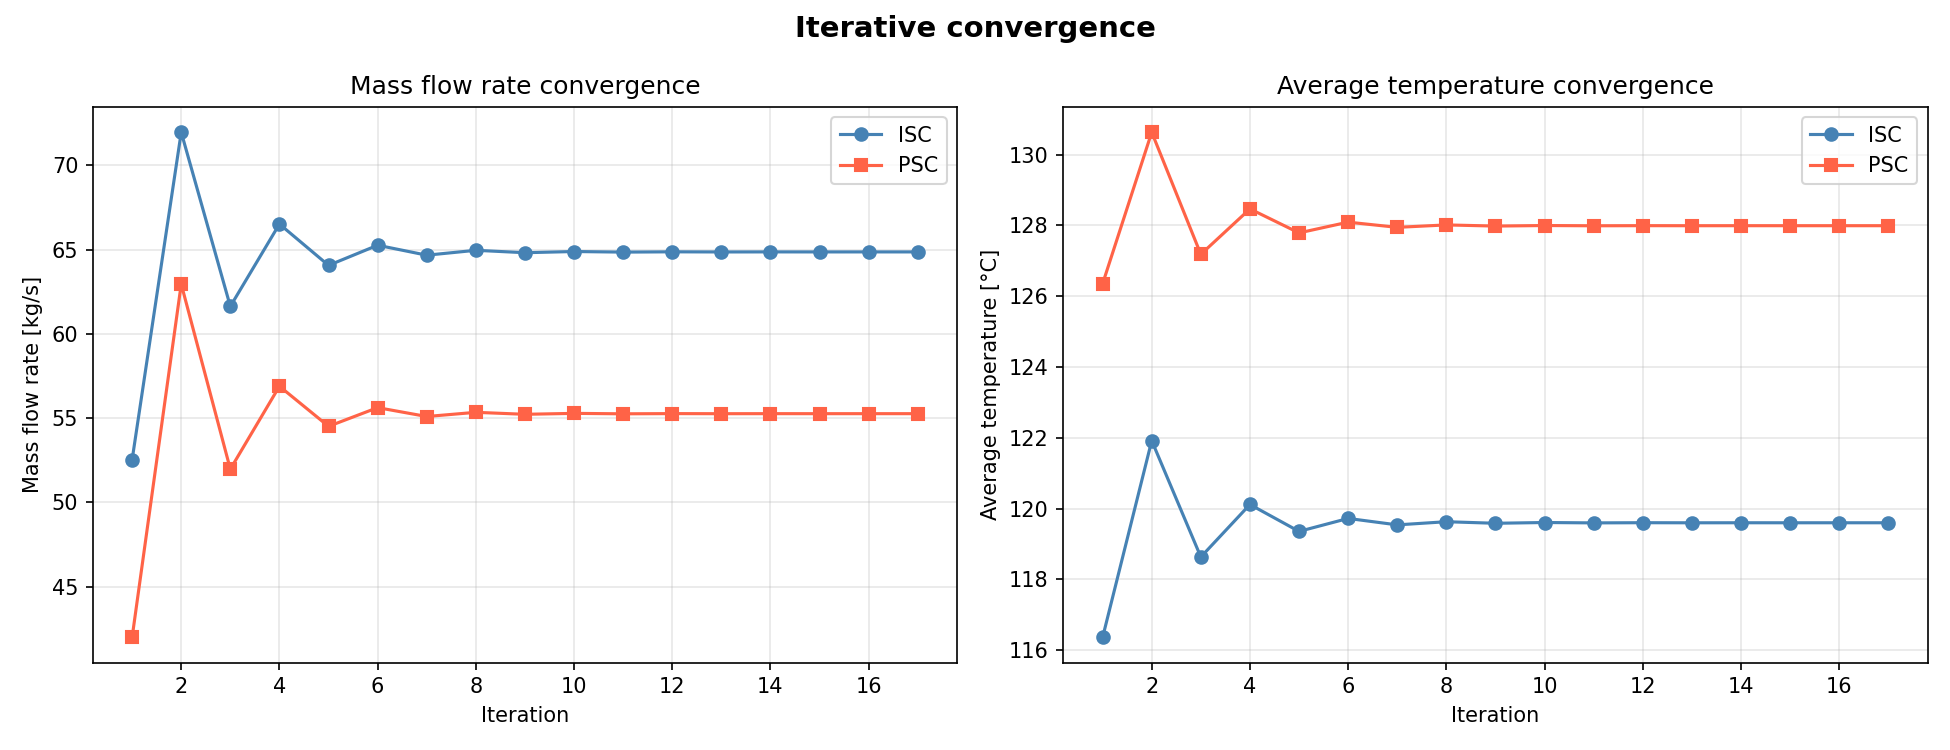
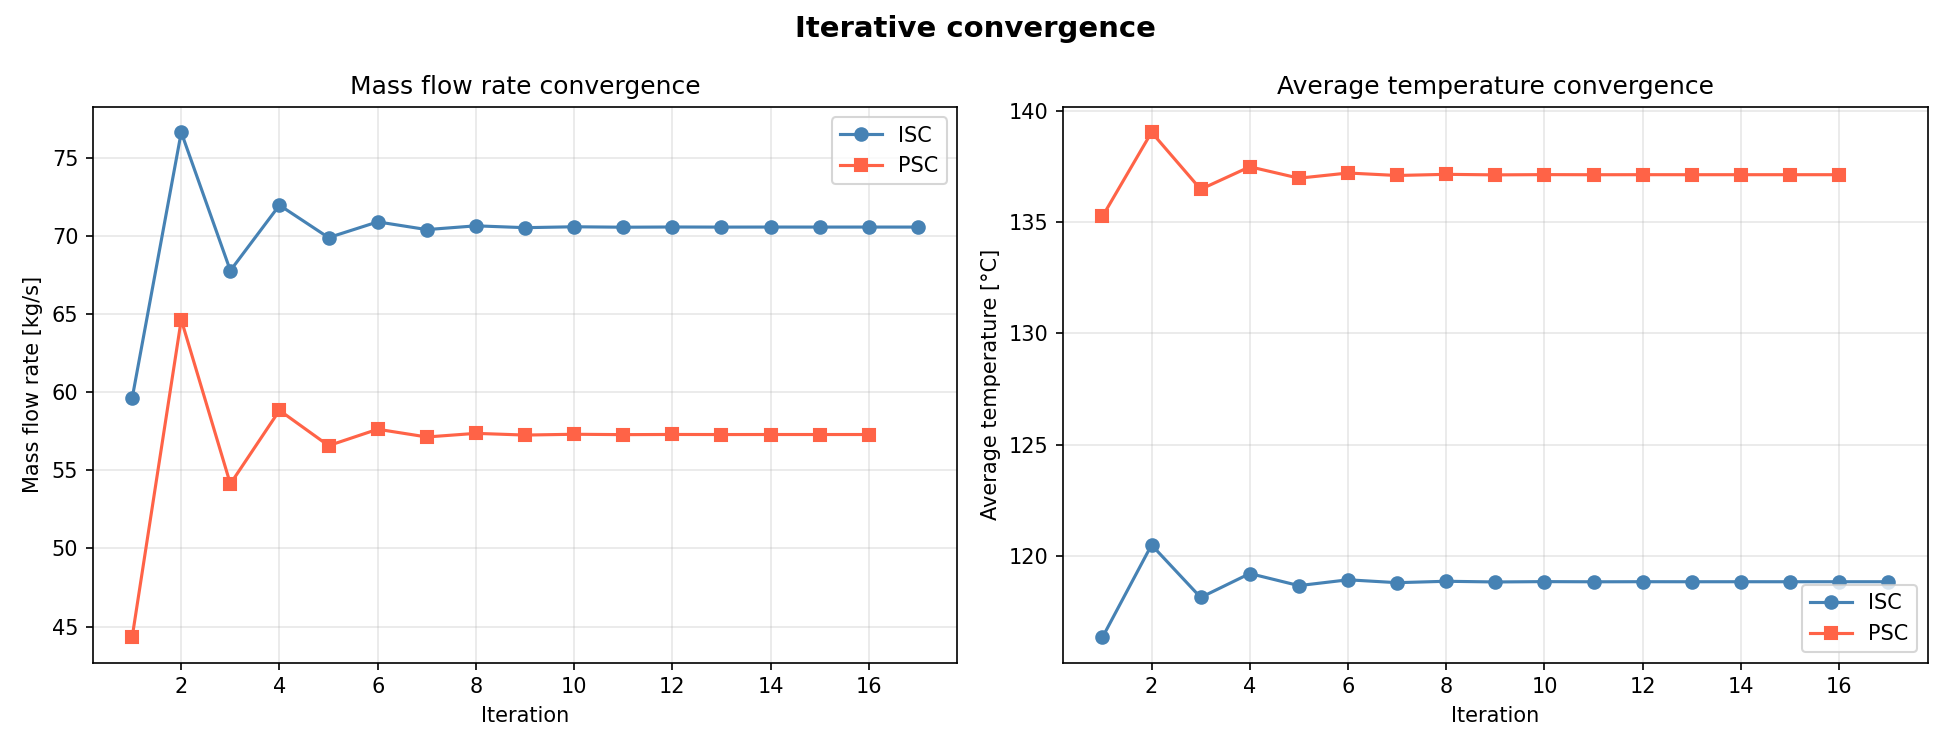
coerretto i dati

diff --git a/assignment1/project2.py b/assignment1/project2.py
@@ -38,7 +38,7 @@ def global_heat_transfer_coefficient_HX(P, A_tot, D_ext, D_int, k, Re, p, T, f, 
     if Circuit == 'PSC':
         # h_ext è lato shell (acqua ISC): usa le proprietà del fluido shell
         Pr_shell = CP.PropsSI('Prandtl', 'P', p_shell, 'T', T_shell + 273.15, 'Water')
-        h_ext = 0.351*Re_shell**0.55*k/D_eq*Pr_shell**(1/3)
+        h_ext = 0.351*Re_shell**0.55*k_fluid/D_eq*Pr_shell**(1/3)
     elif Circuit == 'ISC':
         flux = P / A_tot
         h_ext = flux**(1-1/3.86) * 2.257**(1/3.86)
@@ -122,8 +122,10 @@ def pressure_drop_friction(m, N_HX, p, D_pipe, D_HX, T_av, T_c, T_h, eps_pipe, e
             A_narrow = A_pipe
         k_in = 0.5*(1-sigma)
         k_out = (1-sigma)**2
-        dp_loc_HX = (k_in + k_out) * 1/(2*rho_av * A_narrow**2)
-        k_in_header, k_out_header, dp_loc_pipe_header = 0.0, 0.0, 0.0
+        dp_loc_HX_in  = k_in  * 1/(2*rho_av * A_narrow**2)
+        dp_loc_HX_out = k_out * 1/(2*rho_av * A_narrow**2)
+        k_in_header, k_out_header = 0.0, 0.0
+        dp_loc_pipe_header_in, dp_loc_pipe_header_out = 0.0, 0.0
 
     elif Circuit == 'PSC':
         # Transizione 1: main pipe <-> header
@@ -135,7 +137,8 @@ def pressure_drop_friction(m, N_HX, p, D_pipe, D_HX, T_av, T_c, T_h, eps_pipe, e
             A_narrow_ph = A_headers
         k_in_header = 0.5*(1-sigma_ph)
         k_out_header = (1-sigma_ph)**2
-        dp_loc_pipe_header = (k_in_header + k_out_header) * 1/(2*rho_av * A_narrow_ph**2)
+        dp_loc_pipe_header_in  = k_in_header  * 1/(2*rho_av * A_narrow_ph**2)
+        dp_loc_pipe_header_out = k_out_header * 1/(2*rho_av * A_narrow_ph**2)
 
         # Transizione 2: header <-> HX tubes
         if A_HX_tot < A_headers:
@@ -146,7 +149,8 @@ def pressure_drop_friction(m, N_HX, p, D_pipe, D_HX, T_av, T_c, T_h, eps_pipe, e
             A_narrow = A_headers
         k_in = 0.5*(1-sigma)
         k_out = (1-sigma)**2
-        dp_loc_HX = (k_in + k_out) * 1/(2*rho_av * A_narrow**2)
+        dp_loc_HX_in  = k_in  * 1/(2*rho_av * A_narrow**2)
+        dp_loc_HX_out = k_out * 1/(2*rho_av * A_narrow**2)
 
     #perdite nel shell solo lato ISC
     if Circuit == 'ISC':
@@ -167,8 +171,10 @@ def pressure_drop_friction(m, N_HX, p, D_pipe, D_HX, T_av, T_c, T_h, eps_pipe, e
         'dist_HX': dp_dist_HX,
         'loc_bends_hot': dp_loc_bends_h,
         'loc_bends_cold': dp_loc_bends_c,
-        'loc_HX': dp_loc_HX,
-        'loc_pipe_header': dp_loc_pipe_header,
+        'loc_HX_in': dp_loc_HX_in,
+        'loc_HX_out': dp_loc_HX_out,
+        'loc_pipe_header_in': dp_loc_pipe_header_in,
+        'loc_pipe_header_out': dp_loc_pipe_header_out,
         'loc_shell': dp_loc_shell,
         'loc_valve': dp_loc_valve,
         'loc_core': dp_core,
@@ -182,7 +188,7 @@ def pressure_drop_friction(m, N_HX, p, D_pipe, D_HX, T_av, T_c, T_h, eps_pipe, e
         'k_out_header': k_out_header
     }
     dist_total = dp_dist_c + dp_dist_h + dp_dist_HX
-    loc_total = dp_loc_bends_h + dp_loc_bends_c + dp_loc_HX + dp_loc_pipe_header + dp_loc_shell + dp_loc_valve + dp_core + dp_bends_HX
+    loc_total = dp_loc_bends_h + dp_loc_bends_c + dp_loc_HX_in + dp_loc_HX_out + dp_loc_pipe_header_in + dp_loc_pipe_header_out + dp_loc_shell + dp_loc_valve + dp_core + dp_bends_HX
     deltaP_friction = dist_total + loc_total
     return deltaP_friction, dp_dict, dist_total, loc_total, k_dict
 
@@ -408,13 +414,15 @@ def plot_pressure_drops(dp_dict_ISC, m_ISC, dist_ISC, loc_ISC, dp_b_ISC,
         ('dist_hot',        'Distributed - hot pipe'),
         ('dist_HX',         'Distributed - HX tubes'),
         ('loc_bends_hot',   'Localized - bends hot'),
-        ('loc_bends_cold',  'Localized - bends cold'),
-        ('loc_HX',          'Localized - HX inlet/outlet'),
-        ('loc_pipe_header', 'Localized - pipe↔header'),
-        ('loc_shell',       'Localized - shell'),
-        ('loc_valve',       'Localized - valve'),
-        ('loc_core',        'Localized - core'),
-        ('loc_bends_HX',    'Localized - bends HX'),
+        ('loc_bends_cold',       'Localized - bends cold'),
+        ('loc_HX_in',            'Localized - HX inlet'),
+        ('loc_HX_out',           'Localized - HX outlet'),
+        ('loc_pipe_header_in',   'Localized - pipe\u2194header in'),
+        ('loc_pipe_header_out',  'Localized - pipe\u2194header out'),
+        ('loc_shell',            'Localized - shell'),
+        ('loc_valve',            'Localized - valve'),
+        ('loc_core',             'Localized - core'),
+        ('loc_bends_HX',         'Localized - bends HX'),
     ]
     keys   = [k for k, _ in component_labels]
     labels = [l for _, l in component_labels]
@@ -498,7 +506,7 @@ def save_results_to_csv(dp_dict, m, buoyancy, dist_total, loc_total, filename, k
         
         writer.writerow(["", ""])
         writer.writerow(["--- LOCALIZED PRESSURE DROPS ---", ""])
-        for k in ['loc_bends_hot', 'loc_bends_cold', 'loc_HX', 'loc_pipe_header', 'loc_shell', 'loc_valve', 'loc_core', 'loc_bends_HX']:
+        for k in ['loc_bends_hot', 'loc_bends_cold', 'loc_HX_in', 'loc_HX_out', 'loc_pipe_header_in', 'loc_pipe_header_out', 'loc_shell', 'loc_valve', 'loc_core', 'loc_bends_HX']:
             writer.writerow([k.replace('_', ' ').title(), round(dp_dict[k] * m**2, 4)])
         writer.writerow(["Total Localized", round(loc_total, 4)])
         
@@ -520,7 +528,7 @@ P_term = 0.01 * P_nom
 
 # --- ISC ---
 # Pipe
-L_ISC, H_ISC, p_ISC = 40.0, 10.0, 70e5 
+L_ISC, H_ISC, p_ISC = 20.0, 10.0, 70e5 
 T_sat_ISC = CP.PropsSI('T', 'P', p_ISC, 'Q', 0, 'Water') - 273.15
 od_ISC, th_ISC = 16.0, 1.031 
 id_ISC, A_ISC = get_pipe_geometry(od_ISC, th_ISC)
@@ -539,7 +547,7 @@ T_pool = CP.PropsSI('T', 'P', 1e5, 'Q', 0, 'Water') - 273.15
 
 # --- PSC ---
 # Pipe
-L_PSC, H1_PSC, H2_PSC, p_PSC = 16.0, 7.0, 3.0, 75e5
+L_PSC, H1_PSC, H2_PSC, p_PSC = 8.0, 7.0, 3.0, 75e5
 T_sat_PSC = CP.PropsSI('T', 'P', p_PSC, 'Q', 0, 'Water') - 273.15
 od_PSC, th_PSC = 16.0, 1.031
 id_PSC, A_PSC = get_pipe_geometry(od_PSC, th_PSC)
